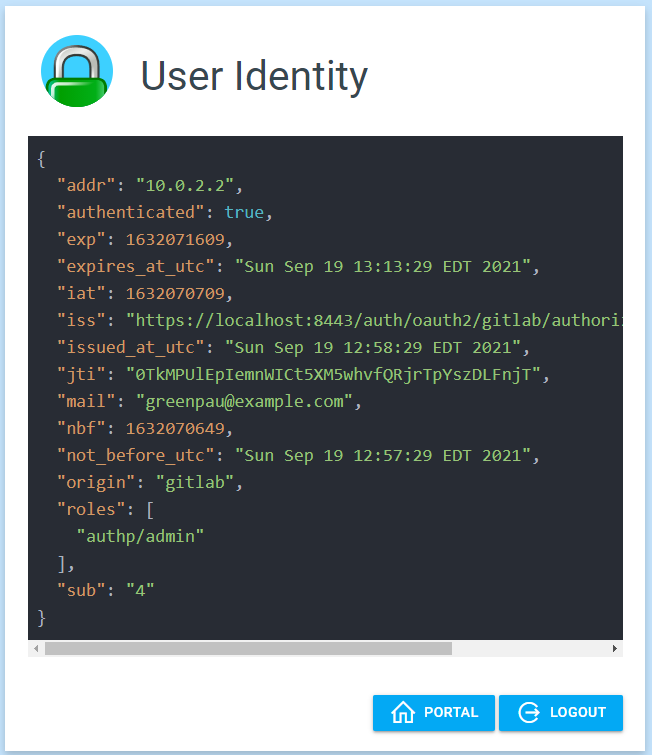
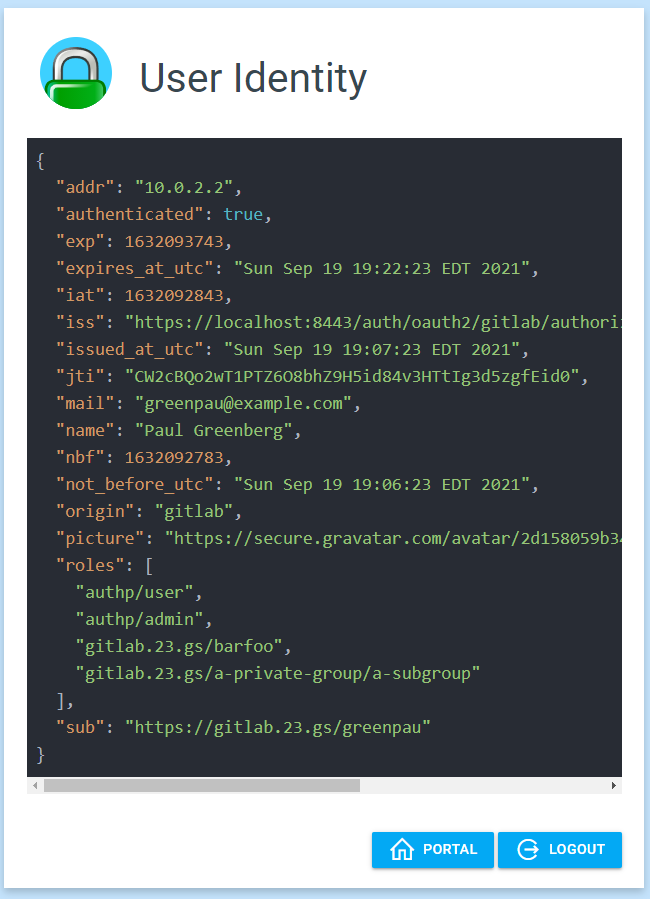
update gitlab provider docs

diff --git a/README.md b/README.md
@@ -2056,13 +2056,101 @@ When a user get redirected to Facebook Login, the screen looks as follows:
 
 #### Gitlab
 
+Whether you are using gitlab.com or hosting your own Gitlab instance
+(e.g. at `gitlab.contoso.com`), create a new app by browsing to
+one of the following URLs:
+
+* `https://gitlab.contoso.com/-/profile/applications`
+* `https://gitlab.com/-/profile/applications`
+
 ![Gitlab - New Application](./assets/docs/images/oauth_gitlab_new_app_1.png)
 
 ![Gitlab - New Application - Scopes](./assets/docs/images/oauth_gitlab_new_app_2.png)
 
 ![Gitlab - New Application - Review](./assets/docs/images/oauth_gitlab_new_app_2.png)
 
+Next, create a configuration for the backend, e.g.:
+
+```
+app.contoso.com {
+  route /auth* {
+    authp {
+      backends {
+        gitlab_oauth2_backend {
+          method oauth2
+          realm gitlab
+          provider gitlab
+          domain_name gitlab.contoso.com
+          client_id 522a2f714a1e978c52e80909e543e2a51
+          client_secret d562a48c29a686b343978edbc8ac3d3
+          scopes openid email profile
+          user_group_filters barfoo
+          user_group_filters ^a
+        }
+      }
+      ui {
+        links {
+          "My Website" / icon "las la-star"
+          "My Identity" "/auth/whoami" icon "las la-star"
+        }
+      }
+      transform user {
+        match origin gitlab
+        action add role authp/user
+      }
+      transform user {
+        match origin gitlab
+        match email greenpau@contoso.com
+        action add role authp/admin
+      }
+    }
+  }
+
+  route {
+    jwt {
+      primary yes
+      allow roles authp/admin authp/user
+      validate bearer header
+      set auth url /auth/oauth2/gitlab
+      inject headers with claims
+    }
+    respond * "my app" 200
+  }
+}
+```
+
+By default, Gitlab groups are not included into the token, unless
+the `user_group_filters` directive is being user in the configuration.
+
+The following directives instruct the portal to add the groups having
+`barfoo` in their name and the groups whose names start with the `a`.
+
+```
+          user_group_filters barfoo
+          user_group_filters ^a
+```
+
+In this case, the groups making it to the JWT token are:
+
+```
+    "gitlab.contoso.com/barfoo",
+    "gitlab.contoso.com/a-private-group/a-subgroup"
+```
+
+When a user browses to the app and clicks Gitlab link, the user is being redirected to
+Gitlab instance. 
+
+![Gitlab - Initiate Login](./assets/docs/images/oauth_gitlab_init.png)
+
+The user should click Authorize to continue.
+
 ![Gitlab - Authorize App](./assets/docs/images/oauth_gitlab_authorize_app_1.png)
+
+Once logged in, the user may browse to "My Identity".
+
+![Gitlab - Portal](./assets/docs/images/oauth_gitlab_portal.png)
+
+The relevant Gitlab data became a part of the JWT token issued by the portal.
 
 ![Gitlab - User Identity](./assets/docs/images/oauth_gitlab_user_identity.png)
 

diff --git a/assets/docs/pages/81-backend-oauth2-0009-gitlab.md b/assets/docs/pages/81-backend-oauth2-0009-gitlab.md
@@ -1,12 +1,100 @@
 #### Gitlab
 
+Whether you are using gitlab.com or hosting your own Gitlab instance
+(e.g. at `gitlab.contoso.com`), create a new app by browsing to
+one of the following URLs:
+
+* `https://gitlab.contoso.com/-/profile/applications`
+* `https://gitlab.com/-/profile/applications`
+
 ![Gitlab - New Application](./assets/docs/images/oauth_gitlab_new_app_1.png)
 
 ![Gitlab - New Application - Scopes](./assets/docs/images/oauth_gitlab_new_app_2.png)
 
 ![Gitlab - New Application - Review](./assets/docs/images/oauth_gitlab_new_app_2.png)
 
+Next, create a configuration for the backend, e.g.:
+
+```
+app.contoso.com {
+  route /auth* {
+    authp {
+      backends {
+        gitlab_oauth2_backend {
+          method oauth2
+          realm gitlab
+          provider gitlab
+          domain_name gitlab.contoso.com
+          client_id 522a2f714a1e978c52e80909e543e2a51
+          client_secret d562a48c29a686b343978edbc8ac3d3
+          scopes openid email profile
+          user_group_filters barfoo
+          user_group_filters ^a
+        }
+      }
+      ui {
+        links {
+          "My Website" / icon "las la-star"
+          "My Identity" "/auth/whoami" icon "las la-star"
+        }
+      }
+      transform user {
+        match origin gitlab
+        action add role authp/user
+      }
+      transform user {
+        match origin gitlab
+        match email greenpau@contoso.com
+        action add role authp/admin
+      }
+    }
+  }
+
+  route {
+    jwt {
+      primary yes
+      allow roles authp/admin authp/user
+      validate bearer header
+      set auth url /auth/oauth2/gitlab
+      inject headers with claims
+    }
+    respond * "my app" 200
+  }
+}
+```
+
+By default, Gitlab groups are not included into the token, unless
+the `user_group_filters` directive is being user in the configuration.
+
+The following directives instruct the portal to add the groups having
+`barfoo` in their name and the groups whose names start with the `a`.
+
+```
+          user_group_filters barfoo
+          user_group_filters ^a
+```
+
+In this case, the groups making it to the JWT token are:
+
+```
+    "gitlab.contoso.com/barfoo",
+    "gitlab.contoso.com/a-private-group/a-subgroup"
+```
+
+When a user browses to the app and clicks Gitlab link, the user is being redirected to
+Gitlab instance. 
+
+![Gitlab - Initiate Login](./assets/docs/images/oauth_gitlab_init.png)
+
+The user should click Authorize to continue.
+
 ![Gitlab - Authorize App](./assets/docs/images/oauth_gitlab_authorize_app_1.png)
+
+Once logged in, the user may browse to "My Identity".
+
+![Gitlab - Portal](./assets/docs/images/oauth_gitlab_portal.png)
+
+The relevant Gitlab data became a part of the JWT token issued by the portal.
 
 ![Gitlab - User Identity](./assets/docs/images/oauth_gitlab_user_identity.png)
 
